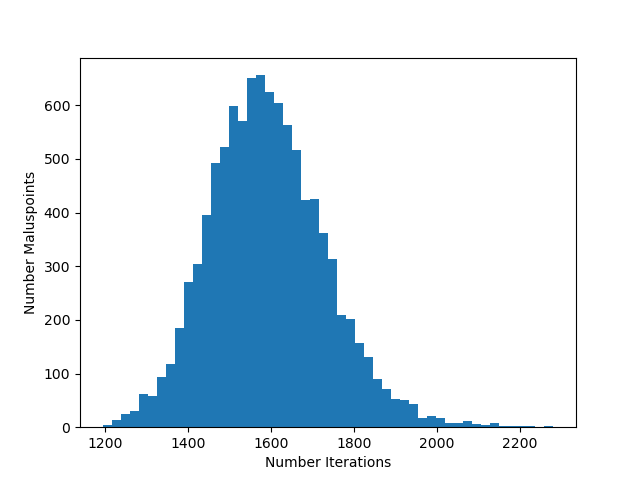
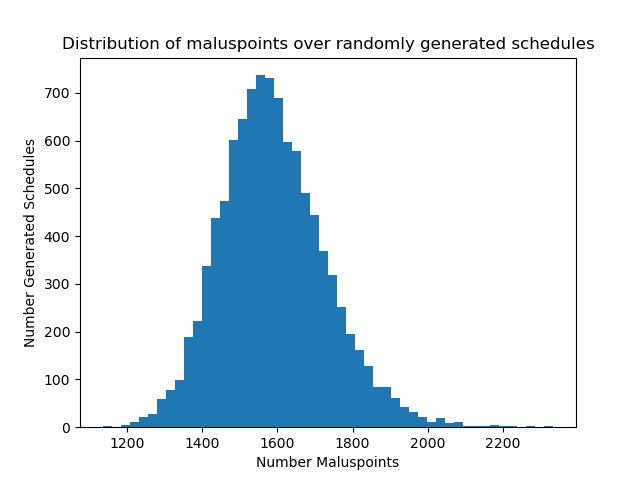
added x and y labels to visualization plot

diff --git a/code/visualize_cost.py b/code/visualize_cost.py
@@ -16,8 +16,9 @@ def run_algorithm(algorithm, schedule, iterations):
 def visualize_maluspoints_barplot(algorithm, schedule, iterations):
     maluspoints = run_algorithm(algorithm, schedule, iterations)
     plt.hist(maluspoints, 50)
-    plt.xlabel('Number Iterations')
-    plt.ylabel('Number Maluspoints')
+    plt.xlabel('Number Maluspoints')
+    plt.ylabel('Number Generated Schedules')
+    plt.title('Distribution of maluspoints over randomly generated schedules')
     plt.savefig('../data/random_cost.png')
 
 
